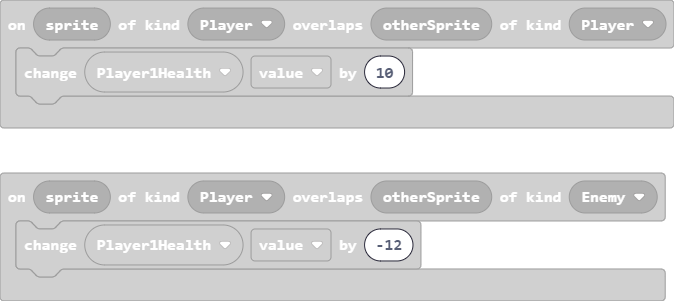
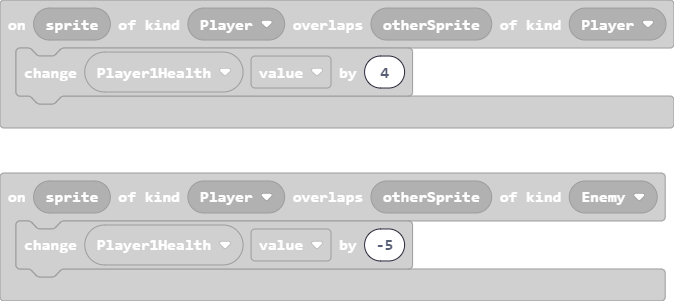
Update main.blocks, main.ts

Changed region(s): [[0.5608, 0.7176, 0.6231, 0.897], [0.5608, 0.2093, 0.592, 0.2691]]

diff --git a/main.ts b/main.ts
@@ -101,7 +101,7 @@ scene.onOverlapTile(SpriteKind.Player, assets.tile`myTile2`, function (sprite, l
     }
 })
 sprites.onOverlap(SpriteKind.Player, SpriteKind.Player, function (sprite, otherSprite) {
-    Player1Health.value += 10
+    Player1Health.value += 4
 })
 scene.onOverlapTile(SpriteKind.Player, assets.tile`myTile31`, function (sprite, location) {
     currentmap += 1
@@ -135,7 +135,7 @@ scene.onOverlapTile(SpriteKind.Player, assets.tile`myTile28`, function (sprite, 
     }
 })
 sprites.onOverlap(SpriteKind.Player, SpriteKind.Enemy, function (sprite, otherSprite) {
-    Player1Health.value += -12
+    Player1Health.value += -5
 })
 let Heister2: Sprite = null
 let Loot: Sprite[] = []
